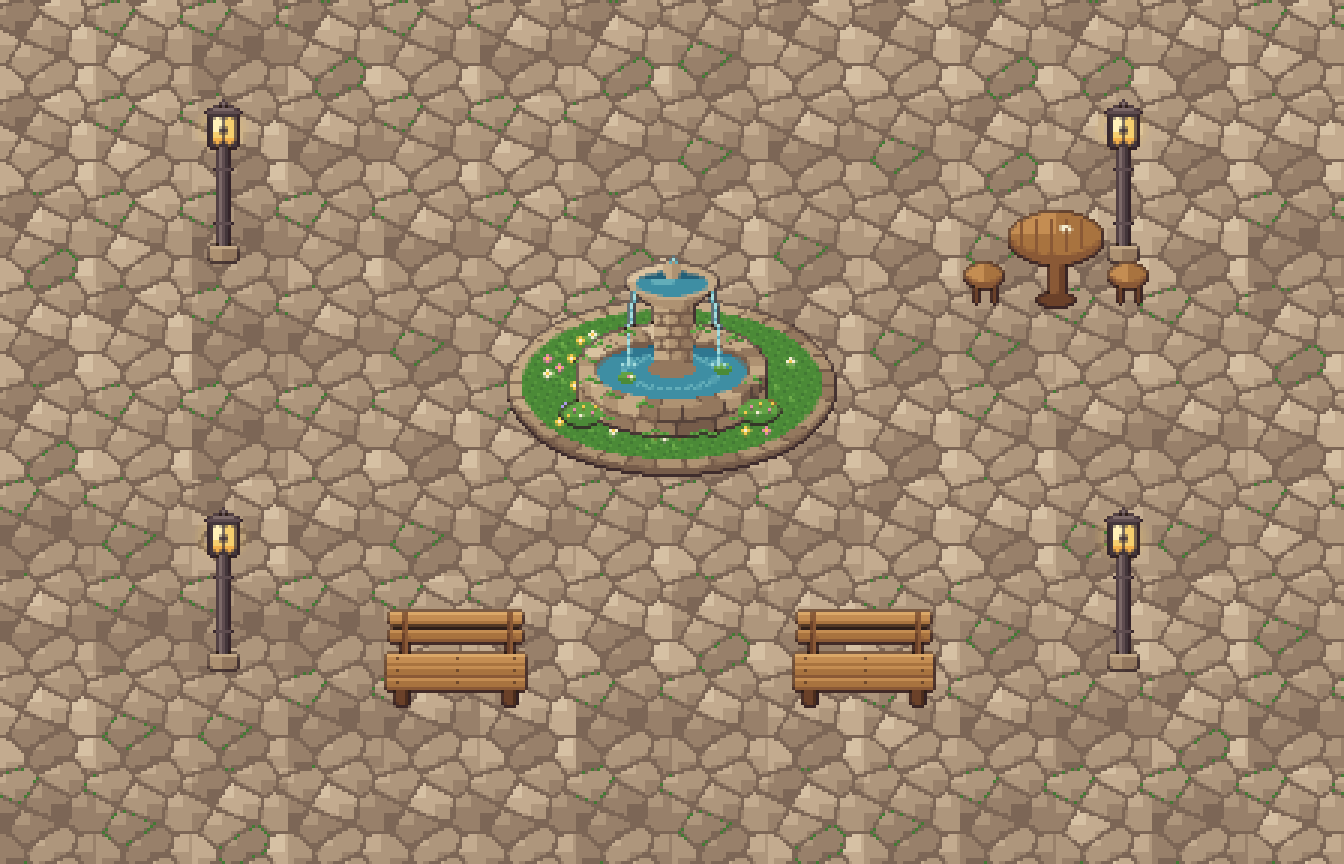
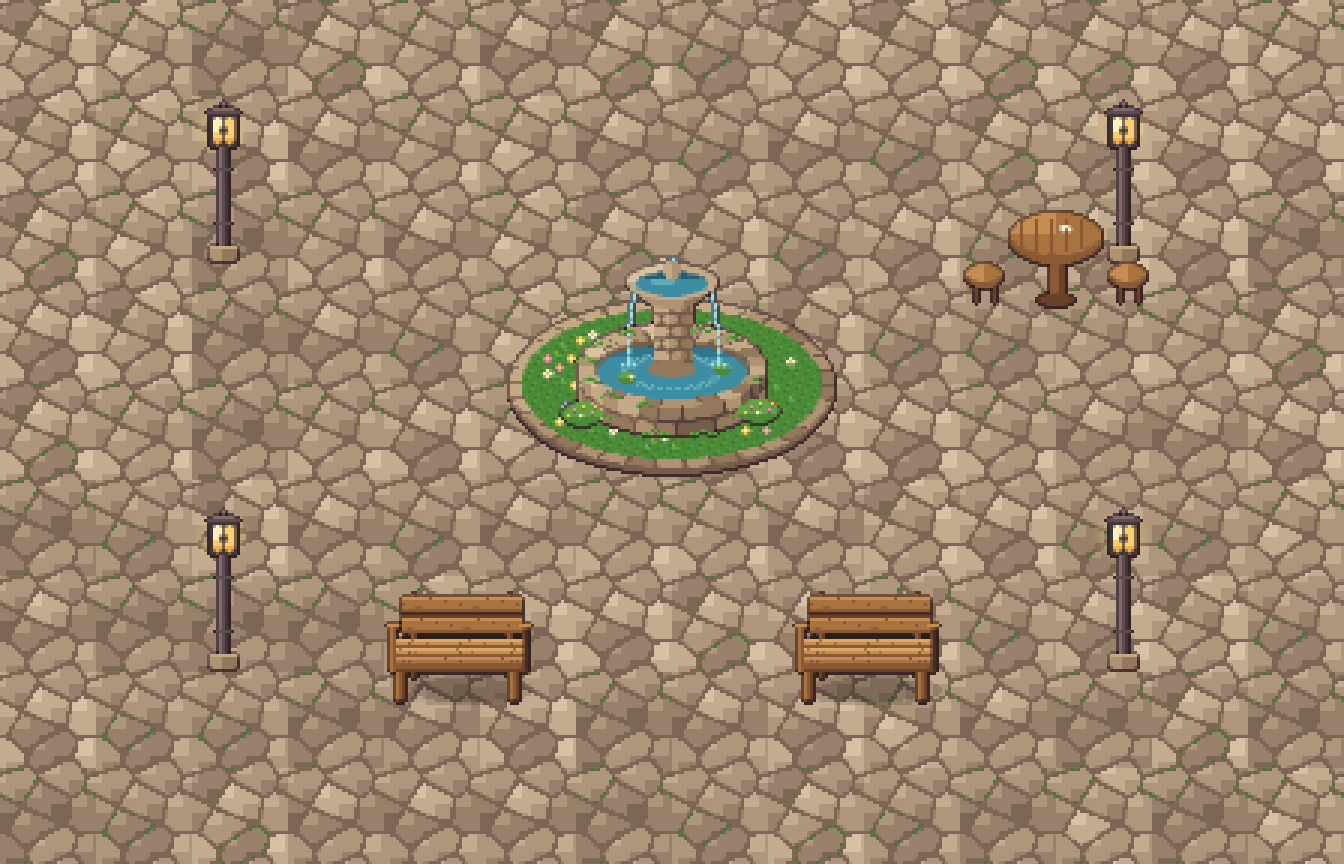
Bench: redraw in 3/4 view with seat top, thickness, legs and ground shadow
Claude-Session: https://claude.ai/code/session_01UfpJh2yGrDMaNfv5mQuco1

Changed region(s): [[0.5625, 0.6875, 0.7188, 0.8438], [0.2812, 0.6875, 0.4062, 0.8125]]

diff --git a/tools/pixel-art/props.py b/tools/pixel-art/props.py
@@ -71,21 +71,51 @@ def lamp():
     halo.alpha_composite(im); return halo
 
 def bench():
-    """Ahşap bank, arkalıklı, 3/4 açı. 48x34."""
-    W, H = 48, 34; c = Canvas(W, H)
-    for (x0, x1, y0, y1, base) in ((2, 46, 2, 6, 4), (2, 46, 8, 12, 3)):     # arkalık iki tahta
-        for y in range(y0, y1):
-            for x in range(x0, x1): c.put(x, y, WOOD[base + 1] if y == y0 else WOOD[base - 1] if y == y1 - 1 else WOOD[base])
-    for x in (6, 41):                                                          # arkalık dikmeleri
-        for y in range(2, 20): c.put(x, y, WOOD[1]); c.put(x + 1, y, WOOD[2])
-    for (y0, base) in ((16, 4), (20, 3), (24, 3)):                             # oturak tahtaları
-        for y in range(y0, y0 + 4):
-            for x in range(1, 47): c.put(x, y, WOOD[base + 1] if y == y0 else WOOD[base - 1] if y == y0 + 3 else WOOD[base])
-        for x in (4, 24, 43): c.put(x, y0 + 1, WOOD[0])                        # çivi
-    for x in (4, 40):                                                          # ayaklar
-        for y in range(28, 33):
-            for k in range(4): c.put(x + k, y, WOOD[1] if k < 3 else WOOD[0])
-    return finish(c)
+    """Ahşap bank, 3/4 açı: arkalık geride ve hafif yatık, oturağın üst yüzü görünür, ön kalınlık,
+    yan kol tahtaları, ön ve arka ayaklar, yerde gölge. 50x42."""
+    W, H = 50, 42; c = Canvas(W, H)
+    def plank(x0, x1, y0, rows, base, top_light=True):
+        for i, y in enumerate(range(y0, y0 + rows)):
+            for x in range(x0, x1):
+                col = WOOD[base]
+                if i == 0 and top_light: col = WOOD[min(5, base + 1)]
+                if i == rows - 1: col = WOOD[base - 1]
+                if (x * 7 + y * 3) % 19 == 0: col = WOOD[base - 1]
+                c.put(x, y, col)
+    # yerdeki gölge (oturağın altı ve arkası)
+    sh = Image.new('RGBA', (W, H), (0, 0, 0, 0)); sp = sh.load()
+    for y in range(26, 42):
+        for x in range(0, W):
+            d = ((x + .5 - 27) / 23) ** 2 + ((y + .5 - 34) / 5.5) ** 2
+            if d <= 1: sp[x, y] = (30, 22, 18, 85 if d < .6 else 45)
+    # arka ayaklar (oturağın arkasında, daha yukarıda)
+    for x0 in (9, 41):
+        for y in range(20, 30): c.put(x0, y, WOOD[1]); c.put(x0 + 1, y, WOOD[0])
+    # arkalık dikmeleri ve iki tahta (biraz geriye yatık: üst tahta 1 px sağa kayık değil, daha koyu)
+    for x0 in (9, 41):
+        for y in range(2, 20): c.put(x0, y, WOOD[2]); c.put(x0 + 1, y, WOOD[1])
+    plank(6, 46, 3, 5, 3)
+    plank(6, 46, 10, 5, 3)
+    for x in range(6, 46): c.put(x, 8, WOOD[0]); c.put(x, 9, WOOD[1])          # tahta arası gölge
+    # oturak üst yüzü: 3 tahta, yukarıdan görünür (açık)
+    for k, y0 in enumerate((17, 20, 23)):
+        plank(4, 46, y0, 3, 4 if k < 2 else 3)
+        for x in range(4, 46): c.put(x, y0 + 2, WOOD[2])                          # tahtalar arası derz
+    # oturak ön kalınlığı
+    for x in range(4, 46): c.put(x, 26, WOOD[2]); c.put(x, 27, WOOD[1])
+    for x in (8, 25, 42): c.put(x, 18, WOOD[1]); c.put(x, 21, WOOD[1]); c.put(x, 24, WOOD[1])   # çiviler
+    # yan kol tahtaları (uçlarda, derinlik verir)
+    for x0, light in ((2, True), (46, False)):
+        for y in range(13, 28):
+            c.put(x0, y, WOOD[3] if light else WOOD[1]); c.put(x0 + 1, y, WOOD[2] if light else WOOD[0])
+        for x in range(x0 - 1, x0 + 3): c.put(x, 12, WOOD[4])                     # kol üstü
+    # ön ayaklar (öne çıkık, yan yüzü görünür)
+    for x0 in (4, 42):
+        for y in range(28, 37):
+            c.put(x0, y, WOOD[3]); c.put(x0 + 1, y, WOOD[2]); c.put(x0 + 2, y, WOOD[1])
+        for x in range(x0, x0 + 3): c.put(x, 37, WOOD[0])
+    im = finish(c)
+    sh.alpha_composite(im); return sh
 
 def table_set():
     """Yuvarlak ahşap masa + iki tabure. 64x40."""
@@ -124,8 +154,8 @@ if __name__ == '__main__':
     sc.alpha_composite(f, (7 * T - 40, by + 30 - 58 - 6))
     for (lx, ly) in ((2 * T, 1 * T), (11 * T + 12, 1 * T), (2 * T, 5 * T + 8), (11 * T + 12, 5 * T + 8)):
         sc.alpha_composite(items['lamp'], (lx, ly))
-    sc.alpha_composite(items['bench'], (4 * T, 6 * T + 10))
-    sc.alpha_composite(items['bench'], (8 * T + 8, 6 * T + 10))
+    sc.alpha_composite(items['bench'], (4 * T, 6 * T + 4))
+    sc.alpha_composite(items['bench'], (8 * T + 8, 6 * T + 4))
     sc.alpha_composite(items['table_set'], (10 * T, 2 * T))
     sc.resize((sc.width * 3, sc.height * 3), Image.NEAREST).save(os.path.join(OUT, 'meydan-onizleme.png'))
     print('ok')
